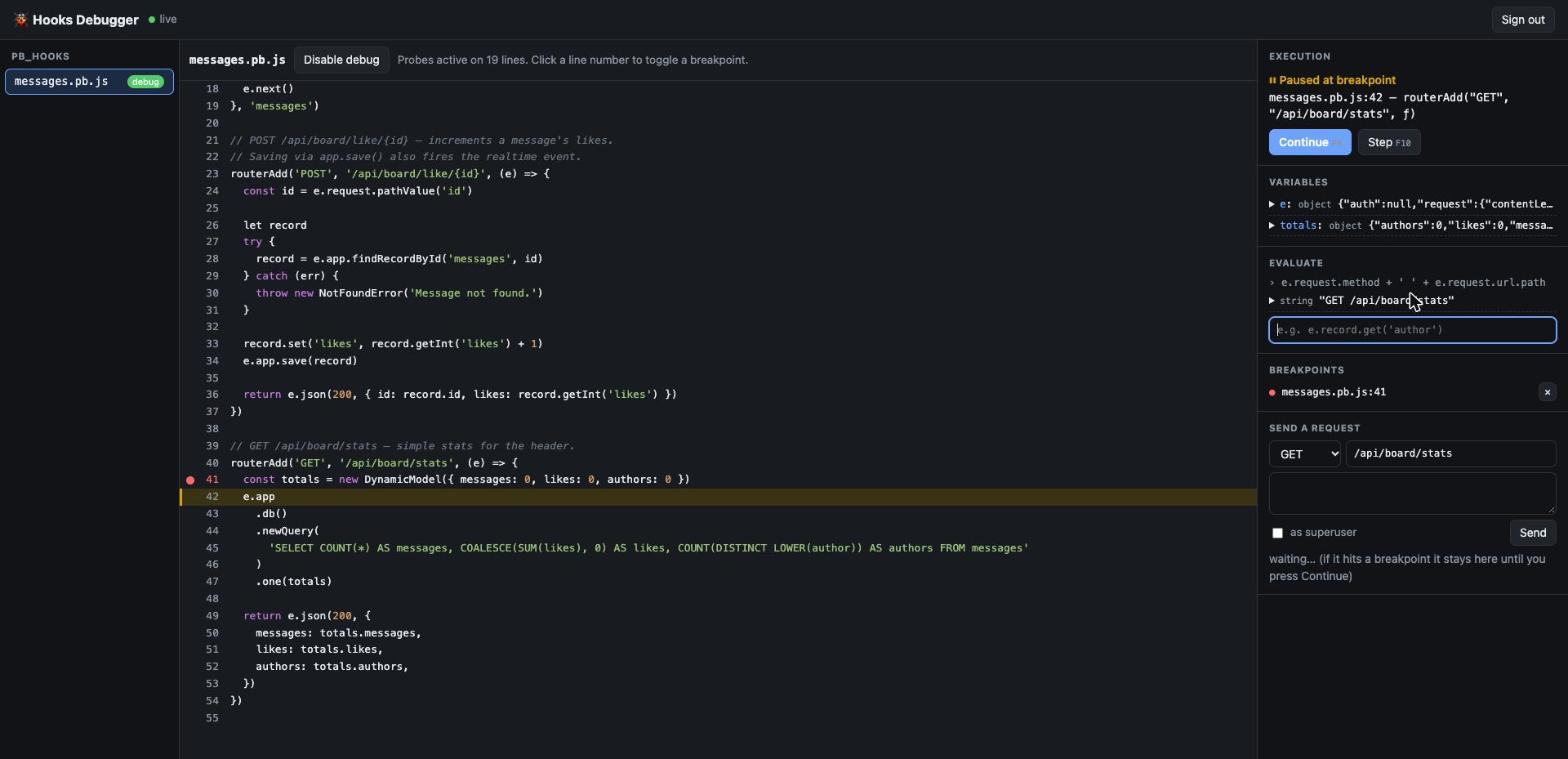
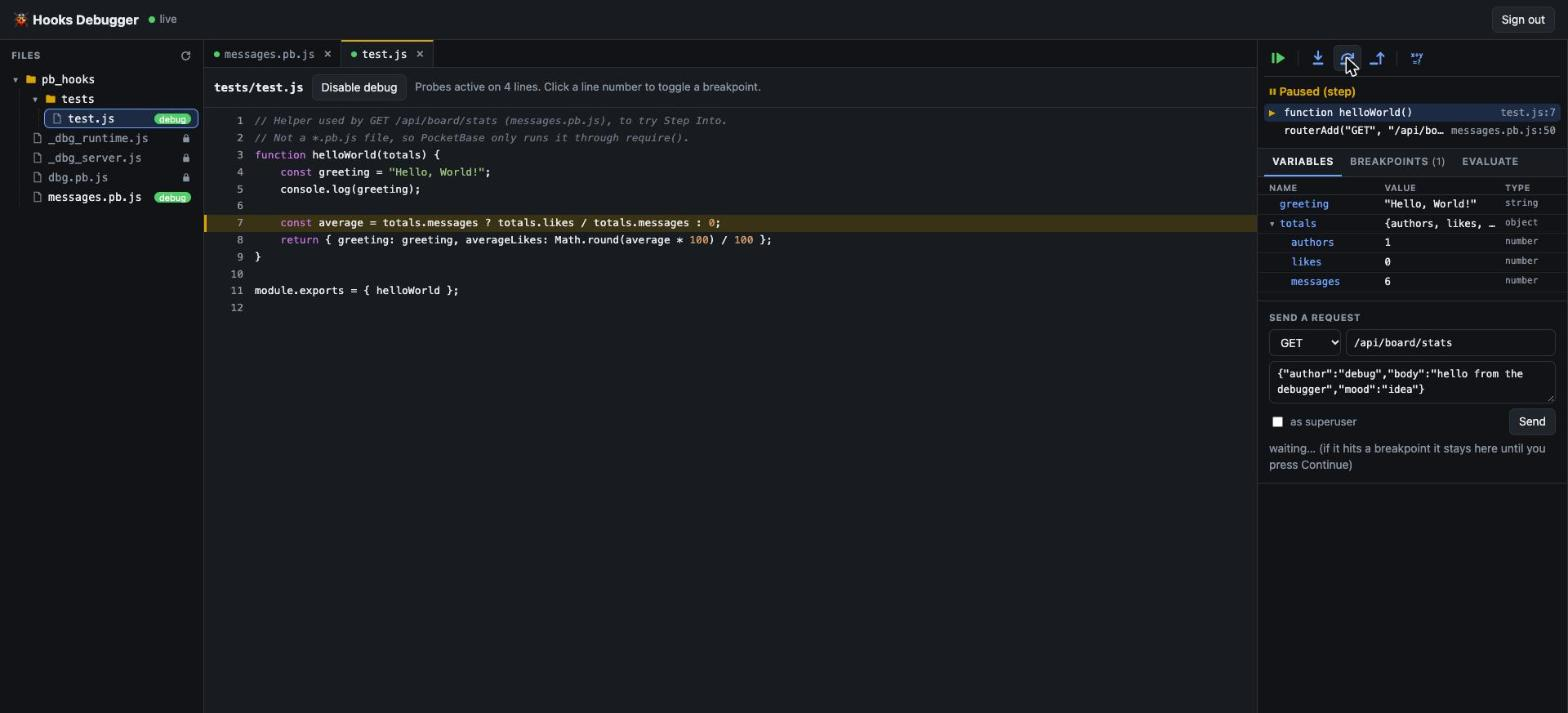
Refresh demo GIF and screenshot for the new UI

Changed region(s): [[0.0, 0.0, 1.0, 0.7714], [0.1562, 0.8022, 0.2812, 0.8948], [0.125, 0.8948, 0.1562, 0.9257]]

diff --git a/README.md b/README.md
@@ -2,7 +2,7 @@
 
 A breakpoint debugger for [PocketBase](https://github.com/pocketbase/pocketbase) JS hooks (`pb_hooks`) that runs entirely inside PocketBase itself. You don't need extra binaries, an IDE or a hosting service: drop three folders next to `pocketbase`, open `/debug/` in the browser, pick a hook file and click a line number. When you trigger the hook, the request pauses there and you can inspect variables, evaluate expressions and step through the code.
 
-![Pausing a request at a breakpoint, stepping, evaluating an expression and continuing](docs/demo.gif)
+![Pausing at a breakpoint, stepping into a helper in another file, evaluating an expression, inspecting the caller in the call stack, stepping out and resuming](docs/demo.gif)
 
 It only uses standard JSVM APIs (`sleep()`, `$os`, `$app.store()`, realtime), so it runs on any PocketBase with JS hooks. It was tested with PocketBase **v0.40.6**, both locally (macOS) and on [PocketHost](https://pockethost.io).
 
@@ -17,7 +17,7 @@ It only uses standard JSVM APIs (`sleep()`, `$os`, `$app.store()`, realtime), so
 - A **call stack**. Click a frame to open its file at the calling line and see that frame's variables; **Evaluate** runs in the selected frame.
 - A built-in request runner, so you can trigger hooks without leaving the page.
 
-![The debugger paused on line 42 of messages.pb.js, showing local variables and an evaluated expression](docs/screenshot.jpg)
+![The debugger paused inside helloWorld() in tests/test.js, with the call stack, expanded variables and the debug toolbar](docs/screenshot.jpg)
 
 ## Quick start
 
